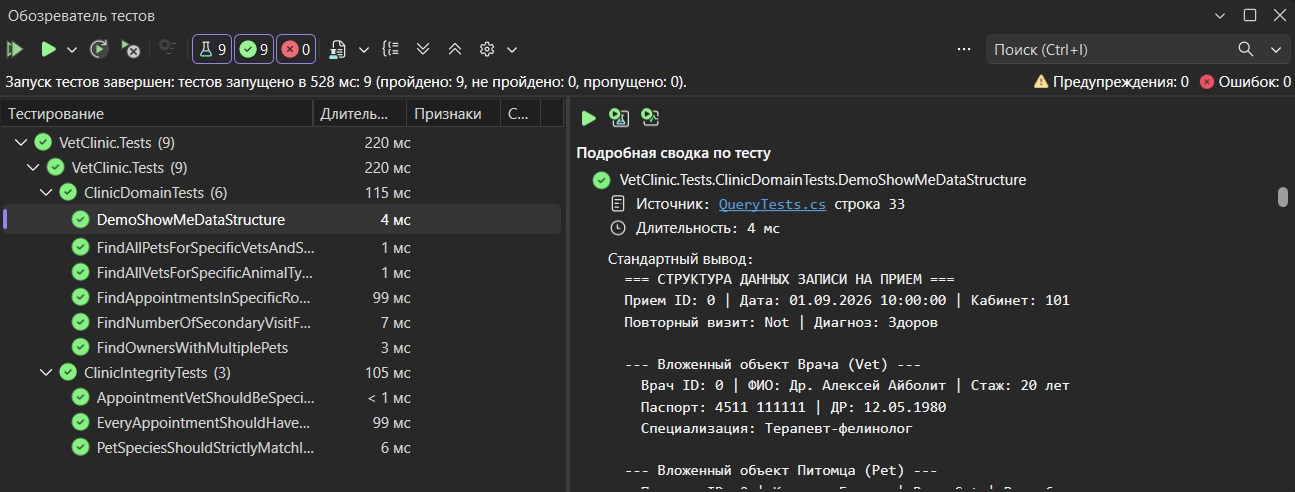
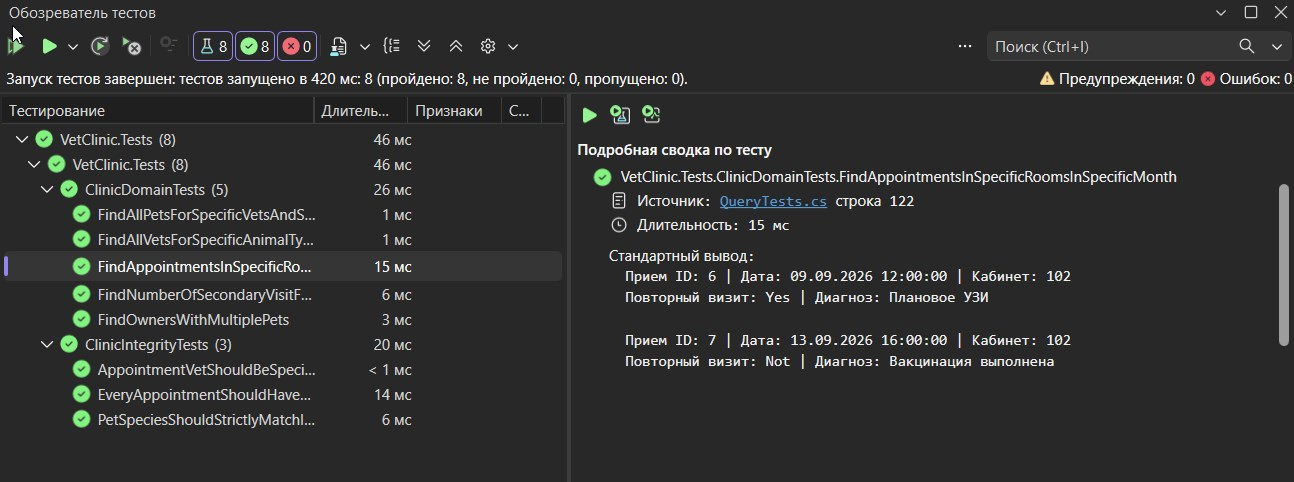
added README

diff --git a/VetClinic/README.md b/VetClinic/README.md
@@ -1,0 +1,102 @@
+# Разработка корпоративных приложений — лабораторная работа №1
+
+## «Классы»
+
+В рамках первой лабораторной работы реализована объектно-ориентированная модель **ветеринарной клиники**, подготовлены тестовые данные и unit-тесты с использованием LINQ.
+
+Данные хранятся **в памяти в виде коллекций**.
+
+Вариант: 19
+
+---
+
+## Предметная область
+
+Проект моделирует работу ветеринарной клиники.
+
+### Основные сущности
+
+| Класс | Назначение |
+|---|---|
+| `Owner` | Владелец животного |
+| `Pet` | Питомец |
+| `Breed` | Кличка животного |
+| `Vet` | Ветеринар |
+| `Specialization` | Специализация врача |
+| `Service` | Оказанная услуга |
+| `Appointment` | Запись на приём |
+
+### Перечисления
+
+`Species` —  виды животных:
+
+- `Cat`
+- `Dog`
+- `Pigeon`
+- `Rabbit`
+- `Horse`
+
+`RepeatVisitIndicator` — индикатор повторного визита:
+
+- `No`
+- `Yes`
+
+
+---
+
+## Связи между сущностями
+
+Основные связи предметной области:
+- `Appointment` содержит информацию о `Pet`, `Vet`, `Service`
+- `Pet` содержит информацию о `Owner` и `Breed`
+- `Vet` и `Service` содержат информацию о `Specialization`
+- `Specialization`, `Pet` и `Breed` содержат информацию о `Species`
+---
+
+## Fixture
+
+Класс `VetClinicFixture` содержит коллекции:
+
+```csharp
+public List<Breed> Breeds { get; };
+public List<Owner> Owners { get; };
+public List<Specialization> Specializations { get; };
+public List<Vet> Vets { get; };
+public List<Service> Services { get; };
+public List<Appointment> Appointment { get; };
+```
+
+В фикстуре создаются:
+- 15 пород животных;
+- 11 владельцев животных;
+- 10 специализаций;
+- 10 врачей;
+- 15 услуг;
+- 17 питомцев;
+- 17 обращений.
+---
+
+## Unit-тесты
+
+Тесты находятся в проекте `VetClinic.Tests`.
+
+Для повторного использования одного набора данных используется `VetClinicFixture`. 
+
+### `DomainTests`
+
+Тесты проверяют корректность созданного датасета и основных связей.
+
+### `QueriesTests`
+
+В тестах реализованы LINQ-запросы.
+
+---
+
+## Запуск тестов
+
+```powershell
+dotnet test
+```
+
+## Результаты
+![Результаты тестов](Results/test_results.jpg)
